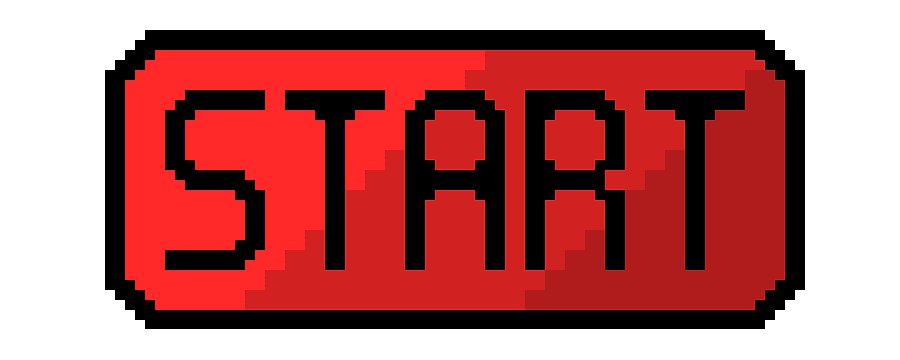
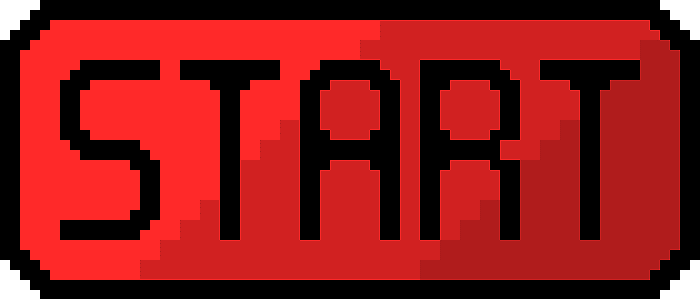
added quit, buttons done

diff --git a/src/MenuState.java b/src/MenuState.java
@@ -5,10 +5,10 @@ public class MenuState extends GameState {
 
     private String[] options = {"Start", "Help", "Quit"};
     private int currentSelection = 0;
-    private int optionWidth = 300;
-    private int optionWidthSelect = 450;
-    private int optionHeight = 100;
-    private int optionHeightSelect = 150;
+    private int optionWidth = 200;
+    private int optionWidthSelect = 300;
+    private int optionHeight = 80;
+    private int optionHeightSelect = 120;
 
     private int firstLevel = 1; //maybe if i play with this i cant get save points
 
@@ -30,13 +30,13 @@ public class MenuState extends GameState {
         g.drawImage(Images.menu,0,0,GamePanel.WIDTH,GamePanel.HEIGHT,null);
         for(int i = 0; i < options.length; i++){
             if(i == currentSelection) {
-                g.drawImage(Images.menuOptions[i],GamePanel.WIDTH / 2 - optionWidthSelect/options[i].length()-125 - options[i].length()*4,GamePanel.HEIGHT / 2 + i * 170 - options.length * 85,optionWidthSelect,optionHeightSelect,null);
+                g.drawImage(Images.menuOptions[i],GamePanel.WIDTH / 2  - optionWidthSelect /2,GamePanel.HEIGHT / 2 + i * 170 - options.length * 85,optionWidthSelect,optionHeightSelect,null);
             }
             else {
                 //g.setColor(Color.BLACK);
                 //g.setFont(new Font(null, Font.BOLD,62));
                 //g.drawString(options[i], GamePanel.WIDTH / 2 - 75, GamePanel.HEIGHT / 2 + i * 150 - options.length * 40);
-                g.drawImage(Images.menuOptions[i],GamePanel.WIDTH / 2 - optionWidth/options[i].length() -80 - options[i].length()*4,GamePanel.HEIGHT / 2 + i * 170 - options.length * 75,optionWidth,optionHeight,null);
+                g.drawImage(Images.menuOptions[i],GamePanel.WIDTH / 2 - optionWidth/2,GamePanel.HEIGHT / 2 + i * 170 - options.length * 75,optionWidth,optionHeight,null);
             }
         }
     }

diff --git a/src/Images.java b/src/Images.java
@@ -31,7 +31,7 @@ public class Images {
             menu = ImageIO.read(getClass().getResourceAsStream("/menuField.png"));
             menuOptions[0] = ImageIO.read(getClass().getResourceAsStream("/start.png"));
             menuOptions[1] = ImageIO.read(getClass().getResourceAsStream("/help.png"));
-            menuOptions[2] = ImageIO.read(getClass().getResourceAsStream("/help.png"));
+            menuOptions[2] = ImageIO.read(getClass().getResourceAsStream("/quit.png"));
             levels[0] = ImageIO.read(getClass().getResourceAsStream("/level1Background.png"));
             levels[1] = ImageIO.read(getClass().getResourceAsStream("/level2Background.png"));
         }
